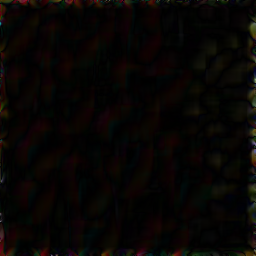
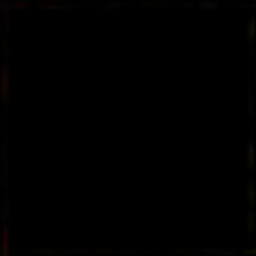
feat: refactoring a bit

diff --git a/Project-2--Blur/main.py b/Project-2--Blur/main.py
@@ -101,6 +101,32 @@ def cria_integral_da_imagem (img):
     
     return img_integral
 
+def get_vertices_janela_integral (img_integral, y, x):
+    janela_x0 = max (0, x + TAMANHO_JANELA[0])
+    janela_x1 = min (img_integral.shape[1] - 1, x + TAMANHO_JANELA[1])
+    janela_y0 = max (0, y + TAMANHO_JANELA[0])
+    janela_y1 = min (img_integral.shape[0] - 1, y + TAMANHO_JANELA[1])
+
+    return janela_x0, janela_x1, janela_y0, janela_y1
+
+def soma_valores_img_integral (img_integral, y, x, z):
+    janela_x0, janela_x1, janela_y0, janela_y1 = get_vertices_janela_integral (img_integral, y, x)
+
+    soma = img_integral[janela_y1, janela_x1, z]
+
+    if janela_x0 > 0:
+        soma -= img_integral[janela_y1, janela_x0 - 1, z]
+
+    if janela_y0 > 0:
+        soma -= img_integral[janela_y0 - 1, janela_x1, z]
+
+    if janela_x0 > 0 and janela_y0 > 0:
+        soma += img_integral[janela_y0 - 1, janela_x0 - 1, z]
+    
+    num_pixels_janela = (janela_x1 - janela_x0 + 1) * (janela_y1 - janela_y0 + 1)
+
+    return soma, num_pixels_janela
+
 def blur_imagem_integral (img):
     img_out = np.zeros_like (img)
     size_y = img.shape[0]
@@ -109,28 +135,12 @@ def blur_imagem_integral (img):
 
     img_integral = cria_integral_da_imagem(img)
 
-    # blur da imagem com imagem integral
-
     for z in range (channels):
         for y in range (size_y):
             for x in range (size_x):
-                janela_x0 = max (0, x + TAMANHO_JANELA[0])
-                janela_x1 = min (size_x - 1, x + TAMANHO_JANELA[1])
-                janela_y0 = max (0, y + TAMANHO_JANELA[0])
-                janela_y1 = min (size_y - 1, y + TAMANHO_JANELA[1])
+                
+                soma, num_pixels_janela = soma_valores_img_integral(img_integral, y, x, z)
 
-                soma = img_integral[janela_y1, janela_x1, z]
-                
-                if janela_x0 > 0:
-                    soma -= img_integral[janela_y1, janela_x0 - 1, z]
-                    
-                if janela_y0 > 0:
-                    soma -= img_integral[janela_y0 - 1, janela_x1, z]
-                
-                if janela_x0 > 0 and janela_y0 > 0:
-                    soma += img_integral[janela_y0 - 1, janela_x0 - 1, z]
-                
-                num_pixels_janela = (janela_x1 - janela_x0 + 1) * (janela_y1 - janela_y0 + 1)
                 img_out[y, x, z] = soma / num_pixels_janela
     
     return img_out
@@ -159,7 +169,7 @@ def main ():
     # cv2.imwrite ('01 - original.png', img*255)
 
     start_time = timeit.default_timer ()
-    img_out = blur_imagem_integral (img)
+    img_out = blur_separavel (img)
     img_out2 = cv2.blur (img, (20, 20))
 
     # compara duas imagens
@@ -169,9 +179,11 @@ def main ():
 
     cv2.imshow ('02 - out', img_out)
     cv2.imwrite ('02 - out.png', img_out*255)
+
     cv2.imshow ('03 - openCV-out', img_out2)
     cv2.imwrite ('03 - openCV-out.png', img_out2*255)
 
+    # Imagem deve ficar preta, pois a diferença entre as imagens é NULA
     cv2.imshow ('04 - Resultado', img_out_3)
     cv2.imwrite ('04 - Resultado.png', img_out_3*255)
     
